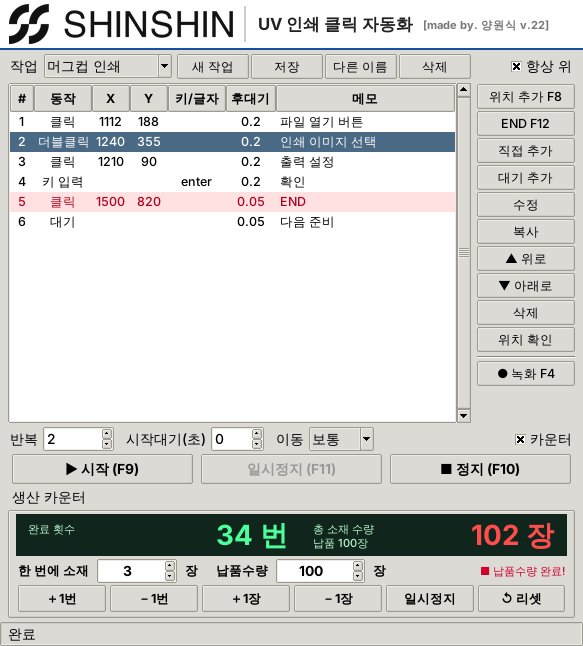
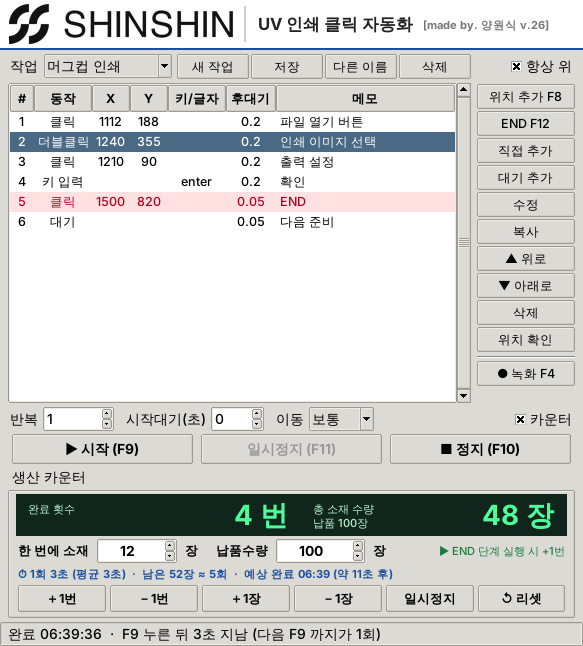
v.26: measure cycle time (F9 to next F9) and estimate delivery finish time
Claude-Session: https://claude.ai/code/session_01HgvnrPN9frqDVCJ1qnZ6b3

diff --git a/uv-click-macro/macro_app.py b/uv-click-macro/macro_app.py
@@ -44,13 +44,14 @@ from pynput import keyboard, mouse
 pyautogui.FAILSAFE = True   # 마우스를 왼쪽 위 구석으로 → 비상정지
 pyautogui.PAUSE = 0.03
 
-VERSION = "v.25"
+VERSION = "v.26"
 CREDIT = f"made by. 양원식 {VERSION}"
 APP_TITLE = f"UV 인쇄 클릭 자동화 [{CREDIT}]"
 COMPANY = "신신기획"
 
 # 업그레이드 내역 (최신이 위) — 프로그램 맨 위 [made by. ...] 를 누르면 보입니다
 CHANGELOG = [
+    ("v.26", "11/23", "1회 시간 (F9 → END → 다음 F9) 표시, 납품수량 기준 예상 완료 시각"),
     ("v.25", "11/22", "작업 중 '한 번에 소재' 수량을 바꿔도 이미 센 총 소재 수량은 그대로"),
     ("v.24", "11/22", "시작 확인 창의 남은 수량 숫자를 빨갛고 크게 표시"),
     ("v.23", "11/22", "시작 확인 창은 총 수량이 납품수량의 95% 이상일 때만 표시"),
@@ -184,6 +185,18 @@ def save_settings(data):
             json.dump(data, f, ensure_ascii=False, indent=2)
     except Exception:
         pass
+
+
+def fmt_dur(sec):
+    """초 → '2분 35초' 같은 글자"""
+    sec = int(round(sec))
+    h, rem = divmod(sec, 3600)
+    mnt, sc = divmod(rem, 60)
+    if h:
+        return f"{h}시간 {mnt}분"
+    if mnt:
+        return f"{mnt}분 {sc:02d}초"
+    return f"{sc}초"
 
 
 def is_end(step):
@@ -414,7 +427,12 @@ class MacroApp:
         p = self.settings.get("pieces")
         self.pieces = int(p) if p is not None else None
         self.target = int(self.settings.get("target", 0))  # 납품수량 (0 = 안 정함)
-        self._confirm_dlg = None   # 총 장수 직접 조정분 (＋/－장)
+        self._confirm_dlg = None
+        # 1회 시간 측정: F9(시작) → END → 다음 F9 까지
+        self.cycle_start = None        # 마지막으로 시작한 시각
+        self.cycle_pieces = 0          # 그때의 총 소재 수량
+        self.cycles = []               # [(걸린 초, 그동안 늘어난 장수), ...]
+        self._last_done = ""           # 마지막 실행 결과 글자   # 총 장수 직접 조정분 (＋/－장)
         self.count_paused = False
 
         self.macro = {"name": "", "repeat": 1, "start_wait": 2.0, "per_plate": 1, "steps": []}
@@ -702,6 +720,12 @@ class MacroApp:
         self.count_state = ttk.Label(row1, text="", foreground="#1b7a3d", font=("맑은 고딕", 8))
         self.count_state.pack(side="right")
 
+        # 1회 시간 + 예상 완료 시각
+        self.eta_var = tk.StringVar(value="")
+        self.eta_label = ttk.Label(box, textvariable=self.eta_var, foreground="#1a4fa0",
+                                   font=("맑은 고딕", 8, "bold"))
+        self.eta_label.pack(fill="x", pady=(0, 2))
+
         # 버튼
         row2 = ttk.Frame(box)
         row2.pack(fill="x")
@@ -769,6 +793,44 @@ class MacroApp:
         self.total_title.config(text="총 소재 수량" + (f"\n납품 {self.target:,}장" if self.target else ""))
         self._apply_count_colors()
         self._update_count_rule()
+        self._update_eta()
+
+    def _cycle_avg(self):
+        """최근 5회 평균: (1회 초, 1회 장수). 장수가 안 늘어난 회차는 장수 평균에서 뺌"""
+        recent = self.cycles[-5:]
+        if not recent:
+            return None, None
+        avg_sec = sum(c[0] for c in recent) / len(recent)
+        valid = [c for c in recent if c[1] > 0]
+        rate = (sum(c[1] for c in valid) / sum(c[0] for c in valid)) if valid else None
+        avg_pcs = (sum(c[1] for c in valid) / len(valid)) if valid else None
+        return avg_sec, (rate, avg_pcs)
+
+    def _update_eta(self):
+        if not hasattr(self, "eta_var"):
+            return
+        avg_sec, rp = self._cycle_avg()
+        if avg_sec is None and self.cycle_start is not None:
+            el = time.time() - self.cycle_start
+            self.eta_var.set(f"⏱ 이번 회 {fmt_dur(el)} 진행 중 — 다음 F9 를 누르면 1회 시간이 기록됩니다")
+            return
+        if avg_sec is None:
+            self.eta_var.set("⏱ 1회 시간: F9 를 두 번 누르면 계산 (F9 → END → 다음 F9)")
+            return
+        text = f"⏱ 1회 {fmt_dur(self.cycles[-1][0])}"
+        if len(self.cycles) > 1:
+            text += f" (평균 {fmt_dur(avg_sec)})"
+        if self.target:
+            left = self.target - self._total()
+            rate, avg_pcs = rp
+            if left <= 0:
+                text += "  ·  납품수량 완료"
+            elif rate:
+                secs = left / rate
+                times = -(-left // avg_pcs) if avg_pcs else 0
+                end = time.strftime("%H:%M", time.localtime(time.time() + secs))
+                text += f"  ·  남은 {left:,}장 ≈ {int(times)}회  ·  예상 완료 {end} (약 {fmt_dur(secs)} 후)"
+        self.eta_var.set(text)
 
     def _apply_count_colors(self):
         base = "#ffc94d" if self.count_paused else "#4dff9a"
@@ -1234,7 +1296,21 @@ class MacroApp:
                 return
         self._begin_run()
 
+    def _mark_cycle(self):
+        """F9 로 시작할 때마다: 지난 시작부터 지금까지를 1회 시간으로 기록"""
+        now = time.time()
+        total = self._total()
+        if self.cycle_start is not None:
+            sec = now - self.cycle_start
+            if 0 < sec <= 3600:            # 1시간 넘게 쉬었으면 (점심 등) 기록 안 함
+                self.cycles.append((sec, total - self.cycle_pieces))
+                self.cycles = self.cycles[-20:]
+        self.cycle_start = now
+        self.cycle_pieces = total
+        self._update_eta()
+
     def _begin_run(self):
+        self._mark_cycle()
         self.running = True
         self.stop_event.clear()
         self.pause_event.clear()
@@ -1351,7 +1427,27 @@ class MacroApp:
         self.start_btn.state(["!disabled"])
         self.pause_btn.state(["disabled"])
         self.pause_btn.config(text="일시정지 (F11)")
-        self.status.set(f"{reason}  ({time.strftime('%H:%M:%S')})")
+        self._last_done = f"{reason} {time.strftime('%H:%M:%S')}"
+        self._tick_elapsed()
+
+    def _tick_elapsed(self, first=True):
+        """끝난 뒤 맨 아래: F9 누른 뒤 지난 시간 (다음 F9 까지가 1회)"""
+        if getattr(self, "_tick_job", None):
+            try:
+                self.root.after_cancel(self._tick_job)
+            except tk.TclError:
+                pass
+            self._tick_job = None
+        if self.running or self.recording or self.cycle_start is None:
+            return
+        # 다른 안내 글(저장됨 등)이 떠 있으면 덮어쓰지 않음
+        if first or self.status.get() == getattr(self, "_tick_text", None):
+            el = time.time() - self.cycle_start
+            self._tick_text = (f"{self._last_done}  ·  F9 누른 뒤 {fmt_dur(el)} 지남 "
+                               "(다음 F9 까지가 1회)")
+            self.status.set(self._tick_text)
+        self._update_eta()
+        self._tick_job = self.root.after(1000, lambda: self._tick_elapsed(False))
 
     def _on_close(self):
         if self.running:
